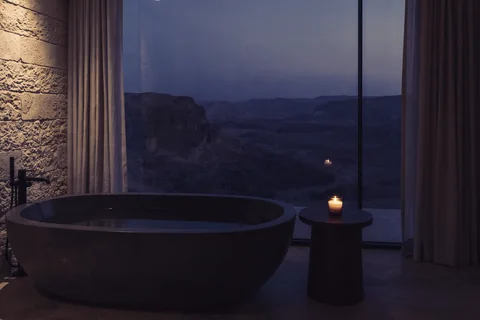
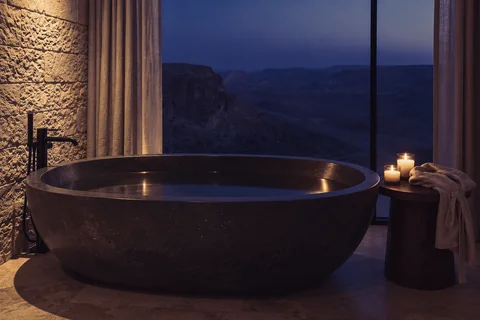
Suite galleries show the suite itself: bathroom and room-to-terrace view (Makhtesh), glass ceiling from inside and a better-lit bath (Kochav), second bedroom and roof at dusk (Galaxia); four per suite
Claude-Session: https://claude.ai/code/session_019tXmwdmGgNa3NtASudzmnm

diff --git a/src/data/images.ts b/src/data/images.ts
@@ -31,12 +31,16 @@ export const photos = {
   makhteshRoom: { id: 'gen-makhtesh-room', alt: 'מיטה זוגית מול קיר זכוכית אל המכתש בשעת דמדומים', caption: 'סוויטת מכתש, דמדומים' },
   makhteshDeck: { id: 'gen-makhtesh-deck', alt: 'מרפסת אבן עם מיטת יום על שפת המצוק', caption: 'המרפסת מעל המצוק' },
   kochavRoom: { id: 'gen-kochav-room', alt: 'חדר עם תקרת זכוכית ומיטה מתחת לשביל החלב', caption: 'סוויטת כוכב, תקרת הזכוכית' },
-  kochavBath: { id: 'gen-kochav-bath', alt: 'אמבטיה עומדת מאבן מול חלון אל המכתש', caption: 'האמבטיה מול המכתש' },
+  kochavBath: { id: 'gen-kochav-bath', alt: 'אמבטיית אבן כהה עומדת מול חלון אל המכתש, נרות וחלוק על שולחן עץ', caption: 'האמבטיה מול המכתש' },
+  kochavCeiling: { id: 'gen-kochav-ceiling', alt: 'מבט מהמיטה אל תקרת הזכוכית: קורות פלדה, השתקפות של מנורות החדר, וכוכבים מעליה', caption: 'סוויטת כוכב, התקרה מבפנים' },
+  makhteshBath: { id: 'gen-makhtesh-bath', alt: 'חדר רחצה מאבן גיר: מקלחת מאחורי זכוכית, כיור אבן על מדף עץ וחלון אל המכתש', caption: 'סוויטת מכתש, חדר הרחצה' },
+  makhteshView: { id: 'gen-makhtesh-view', alt: 'מבט מהמיטה דרך דלת הזכוכית הפתוחה אל המרפסת, מיטת היום והמכתש בשעה כחולה', caption: 'מהמיטה אל המרפסת' },
+  galaxiaBedrooms: { id: 'gen-galaxia-bedrooms', alt: 'חדר השינה השני בווילה: שתי מיטות, חלונות פינתיים אל המכתש, ומבעד לדלת הסלון והאח', caption: 'וילת גלקסיה, חדר השינה השני' },
+  galaxiaRoofDusk: { id: 'gen-galaxia-roof-dusk', alt: 'הגג של הווילה בדמדומים: ג׳קוזי מאבן, ספסל עץ, טלסקופ, ופס כתום באופק', caption: 'הגג בדמדומים' },
   galaxiaRoof: { id: 'gen-galaxia-roof', alt: 'גג עם טלסקופ וג׳קוזי חם תחת שביל החלב', caption: 'וילת גלקסיה, הגג' },
   lodgeExterior: { id: 'gen-lodge-exterior', alt: 'שורת הסוויטות של שחקים על שפת המצוק, חלונות מוארים ושביל החלב מעל', caption: 'שחקים על שפת המצוק, שעה כחולה' },
   coupleNight: { id: 'gen-couple-night', alt: 'זוג עטוף בשמיכה על מעקה המרפסת, מתחת לקשת שביל החלב מעל המכתש', caption: 'מרפסת סוויטה, אחרי חצות' },
   galaxiaLiving: { id: 'gen-galaxia-living', alt: 'סלון עם ספה שקועה, אח טיח וחלונות רחבים אל המכתש', caption: 'הסלון בווילה' },
-  // R7: the city side of the comparison (a real Tel Aviv night, Unsplash)
   // R7: one night sky over two places. Ramon is the frame as it is; the city side is a real
   // Tel Aviv photo (Unsplash 1670702389707) whose sky is replaced by the same frame under city
   // skyglow (tools/r7-city-sky.py + tools/r7-tel-aviv.py), so the surviving stars line up.
@@ -59,7 +63,7 @@ const widths = [480, 800, 1200, 1800] as const;
 export function src(p: Photo, w = 1200, raw = false) {
   const fit = widths.find((x) => x >= w) ?? 1800;
   // gen-* files were regenerated under the same names: the query busts browser and CDN caches
-  const v = p.id.startsWith('gen-') ? '?v=5' : '';
+  const v = p.id.startsWith('gen-') ? '?v=6' : '';
   return `/photos/${p.id}-${fit}${raw ? '-raw' : ''}.webp${v}`;
 }
 

diff --git a/src/data/pricing.ts b/src/data/pricing.ts
@@ -41,7 +41,7 @@ export const suites: Suite[] = [
     ],
     units: 4,
     photo: photos.makhteshRoom,
-    gallery: [photos.makhteshRoom, photos.makhteshDeck, photos.craterDusk, photos.rimDeck],
+    gallery: [photos.makhteshRoom, photos.makhteshView, photos.makhteshBath, photos.makhteshDeck],
   },
   {
     slug: 'kochav',
@@ -64,7 +64,7 @@ export const suites: Suite[] = [
     ],
     units: 3,
     photo: photos.kochavRoom,
-    gallery: [photos.kochavRoom, photos.kochavBath, photos.heroNight, photos.craterRed],
+    gallery: [photos.kochavRoom, photos.kochavCeiling, photos.kochavBath, photos.heroNight],
   },
   {
     slug: 'galaxia',
@@ -87,7 +87,7 @@ export const suites: Suite[] = [
     ],
     units: 2,
     photo: photos.galaxiaRoof,
-    gallery: [photos.galaxiaRoof, photos.galaxiaLiving, photos.rimCliff, photos.canyon],
+    gallery: [photos.galaxiaRoof, photos.galaxiaLiving, photos.galaxiaBedrooms, photos.galaxiaRoofDusk],
   },
 ];
 

diff --git a/NOTES.md b/NOTES.md
@@ -139,12 +139,19 @@
 ## דיפלוי ב-Vercel
 commits שהמחבר שלהם לא מחובר לחשבון Vercel לא נפרסים בתוכנית Hobby. כל ה-commits של סבב העבודה הזה נרשמו בשם Claude, ולכן נשארו ב-GitHub ולא עלו לאתר החי. מכאן והלאה ה-commits נרשמים בשם amitbeneli, והעבודה של Claude מסומנת בשורת Co-Authored-By.
 
+## גלריות הסוויטות: החדר עצמו
+משוב (ChatGPT): בגלריות היו שתי תמונות חדר ושתי תמונות נוף, ולא היה ברור מה מקבלים תמורת 1,450–2,690 ₪. נוספו 6 תמונות פנים שנוצרו עם תמונת רפרנס של אותה סוויטה, כך שהאבן, הריהוט והמסגרות זהים:
+- מכתש: חדר הרחצה, ומבט מהמיטה אל המרפסת.
+- כוכב: תקרת הזכוכית מבפנים (קורות פלדה והשתקפויות, כדי שיהיה ברור שיש זכוכית), והאמבטיה בתאורה טובה יותר (מחליפה את הקודמת).
+- גלקסיה: חדר השינה השני (מקום לארבעה), והגג בדמדומים.
+מכל זוג (Gemini / ChatGPT) נבחרה התמונה שתואמת לרפרנס, גם כשהשנייה יפה יותר: גג עם ג׳קוזי עגול או אמבטיה לבנה היו נראים כמו מקום אחר. כל גלריה היא 4 תמונות מתוך הסוויטה (הפסיפס בנוי ל-4).
+
 ## CI
 `.github/workflows/ci.yml`: שתי משימות במקביל. (1) `astro check` ו-Vitest. (2) Playwright: בונה את האתר, מגיש את `dist` כמו Vercel, ומריץ את כל הבדיקות ב-Chromium מובייל, ב-WebKit (אייפון 13) ובדסקטופ. בכישלון, `test-results` עולה כ-artifact. רץ בכל push ל-main ובכל PR.
 
 ## קרדיטים לתמונות
 - `1670702389707-e20984fab9f6` (תל אביב בלילה, הקרקע בצד העיר של R7): Unsplash.
-- `gen-r7-ramon` (R7; השמיים של צד העיר נגזרים ממנו בקוד), `gen-xp-*` (4 החוויות), `gen-couple-night` (סקשן הסיום), `gen-lodge-exterior` (הלודג׳ מבחוץ, סקשן הסיום) ו-`gen-*` (6 תמונות פנים של הסוויטות): נוצרו ב-Kling AI עבור הפרויקט. אינן תמונות של מקום אמיתי.
+- `gen-r7-ramon` (R7; השמיים של צד העיר נגזרים ממנו בקוד), `gen-xp-*` (4 החוויות), `gen-*-bath`, `gen-*-view`, `gen-kochav-ceiling`, `gen-galaxia-bedrooms`, `gen-galaxia-roof-dusk` (פנים הסוויטות), `gen-couple-night` (סקשן הסיום), `gen-lodge-exterior` (הלודג׳ מבחוץ, סקשן הסיום) ו-`gen-*` (6 תמונות פנים של הסוויטות): נוצרו ב-Kling AI עבור הפרויקט. אינן תמונות של מקום אמיתי.
 כל התמונות הן צילומים של מכתש רמון ומצפה רמון מ-Unsplash (רישיון Unsplash), תחת מסנן צבע אחיד.
 - `heroNight` 1662960126803-02048050f381: עקבות כוכבים מעל מצוק המכתש. Yoav Aziz (@yoavaziz)
 - `starTrailsMesa` 1662960126799-d621b5020d13: עקבות כוכבים מעל גבעה במכתש. Yoav Aziz (@yoavaziz)
